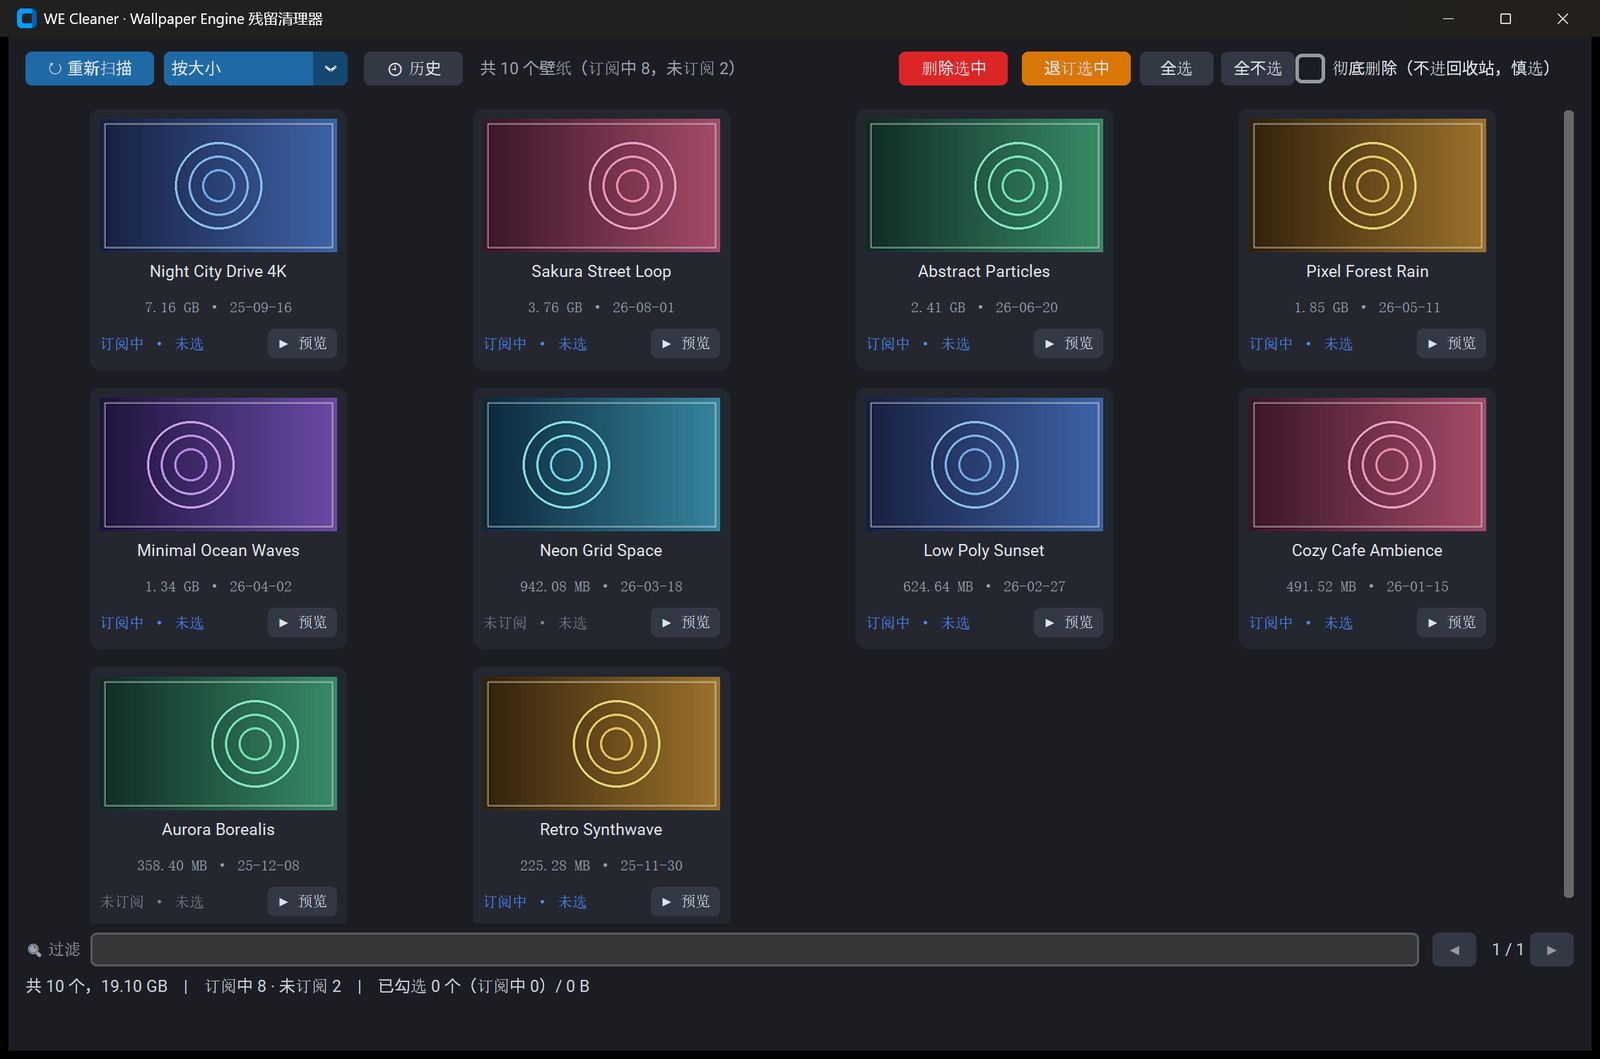
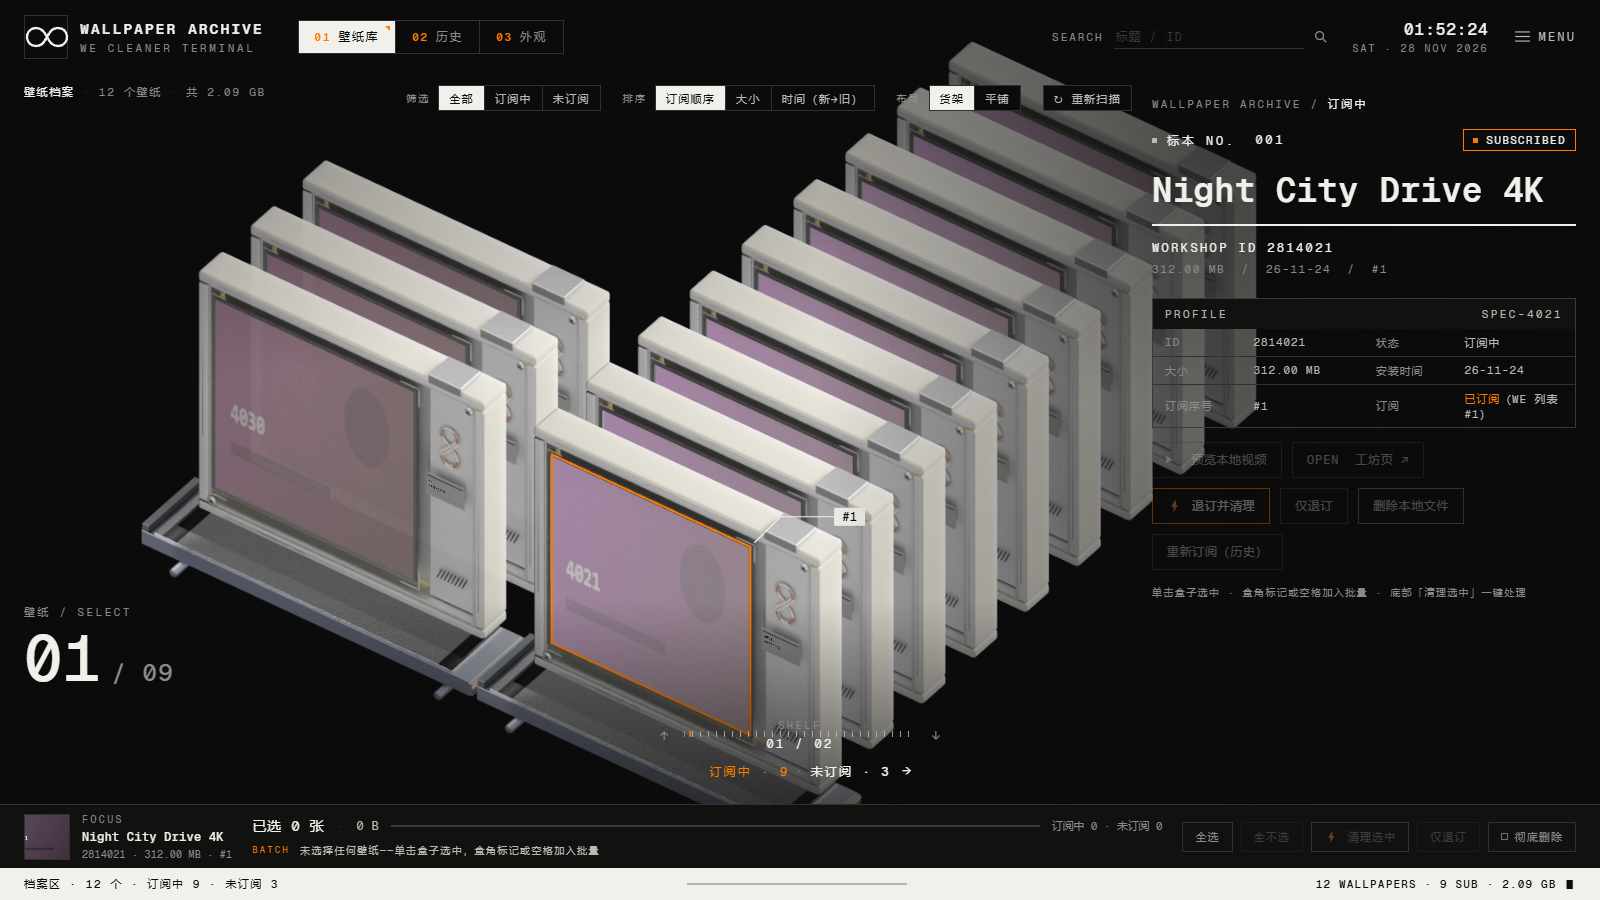
v0.7.3: 仓库清理 + 文档对齐新界面
- 删除临时调试产物（_app_out.txt / _test_flow.py / _icon_preview.png）
- 移除 12 MB 开发自查截图（webui/app/_verify/），docs/screenshot.png
  替换为当前货架界面实拍
- README 中英文重写：等距档案架/平铺双布局、智能清理、历史恢复、
  WebView2 依赖、WECleanerNext.exe 打包命令与体积
- 货架点击补上「露出的上边缘」命中补偿；扫描前检测 Steam 下载暂存区
  并提示；目录测量预算 15s → 8s
- pyproject 版本 0.6.0 → 0.7.3

diff --git a/webui/app/app.js b/webui/app/app.js
@@ -550,10 +550,10 @@ function drawSelectionPlate() {
   ctx.fillStyle = C.fg; ctx.fillRect(lx + 54, ly - 9, tw + 16, 18);
   ctx.fillStyle = C.bg; ctx.fillText(text, lx + 62, ly + 1);
 }
-function hitTest(px, py) {
+function hitTestCore(px, py) {
   const { rows } = shelfPlan();
   const zv = CASE.axes.z;                                     // [0, -75.21] 每世界单位
-  const depth = 0.55;                                          // 盒子顶面厚度（世界单位，目测校准）
+  const depth = 1.0;                                          // 盒子顶面厚度（世界单位，目测校准）
   for (let pos = 0; pos < SHELF_ROWS; pos++) {
     const p = rows[pos]; if (!p) continue;
     // 绘制层序：slot 0 的 close 最大、最后绘制、在最上层 —— 命中检测必须从最上层开始
@@ -577,7 +577,18 @@ function hitTest(px, py) {
     }
   }
   return null;
-}
+
+
+function hitTest(px, py) {
+  // 向上扫描补偿：两盒重叠带里，命中视觉上层的盒子（露出的上边缘）
+  const direct = hitTestCore(px, py);
+  if (direct) return direct;
+  for (let dy = 8; dy <= 130; dy += 8) {
+    const t = hitTestCore(px, py - dy);
+    if (t) return t;
+  }
+  return null;
+}}
 
 /* ---------- 上浮动画 + 重绘泵 ---------- */
 let anim = null;

diff --git a/wecleaner/bridge.py b/wecleaner/bridge.py
@@ -219,6 +219,17 @@ class Api:
         return _err("busy")
 
     def _scan_worker(self) -> None:
+        # Steam 正在写入壁纸文件时（下载/删除），目录测量会极慢——提前告知用户
+        dl_hint = ""
+        try:
+            import glob
+            for lib in core.find_steam_libraries():
+                dl = os.path.join(lib, "steamapps", "workshop", "downloads", self.appid)
+                if os.path.isdir(dl) and os.listdir(dl):
+                    dl_hint = "Steam 正在后台下载壁纸（可能较慢），建议稍后再扫描"
+                    break
+        except Exception:  # noqa: BLE001
+            pass
         try:
             # 1) 先问运行中的 Steam 要权威订阅列表（含顺序 → subIndex）
             order: list[str] | None = None
@@ -229,6 +240,8 @@ class Api:
                         order = steamapi.get_subscribed_ordered()
                     else:
                         connect_error = steamapi.last_error
+                    if dl_hint:
+                        connect_error = (connect_error + "；" if connect_error else "") + dl_hint
                 except Exception as e:  # noqa: BLE001 - API 失败时回退 ACF（core 自己处理）
                     connect_error = str(e)
 

diff --git a/wecleaner/core.py b/wecleaner/core.py
@@ -236,7 +236,7 @@ class _MeasureTimeout(Exception):
     """单文件夹测量超预算（通常因为 Steam 正在写入/删除该目录）。"""
 
 
-def dir_size(path: str, budget: float = 15.0) -> int:
+def dir_size(path: str, budget: float = 8.0) -> int:
     """测量目录大小。budget 秒内没测完则抛 _MeasureTimeout，避免扫描卡死。"""
     t0 = time.monotonic()
     total = 0

diff --git a/README.md b/README.md
@@ -17,6 +17,15 @@
 
 </div>
 
+## 界面
+
+RhinE「音频档案」风格的等距标本盒界面 —— 每张壁纸是一只标本盒，摆在自己的货架上：
+
+- **三个视图**：壁纸库 / 历史 / 外观（6 套配色 × 明暗）
+- **两种布局**：**货架**（等距 3D 标本架）与 **平铺**（网格卡片墙），工具条一键切换
+- **顺手的多选**：单击盒子选中，盒角标记或空格加入批量集；底部「⚡ 清理选中」一键处理
+- **实时对账**：订阅状态每 5 秒与 Steam 同步一次，外部退订/订阅会自动反映
+
 ## 解决什么问题
 
 Wallpaper Engine 的壁纸动辄几 GB，订阅几十张不知不觉就吃掉几十上百 GB 磁盘。更麻烦的是：
@@ -26,40 +35,43 @@ Wallpaper Engine 的壁纸动辄几 GB，订阅几十张不知不觉就吃掉几
 - **想批量退订**，客户端只能一张一张右键移除
 - **退订后反悔了**，文件已经被删，只能重新去创意工坊翻找
 
-WE Cleaner 把这些问题一次解决：缩略图卡片墙 + 精确占用统计 + 批量退订 + 操作历史一键恢复订阅。
+WE Cleaner 把这些问题一次解决：档案架 + 精确占用统计 + 批量退订 + 操作历史一键恢复订阅。
 
 ## 功能
 
 | 功能 | 说明 |
 |---|---|
-| 🖼 **缩略图卡片墙** | 每张壁纸显示预览图、标题、占用大小、安装时间、订阅状态，一眼看清 |
-| 🔍 **搜索与排序** | 按标题/ID 实时过滤；按占用大小、订阅时间排序，找出最占地的那几张 |
-| ⚡ **批量退订** | 勾选多张一次性退订，走 Steam 官方接口，Steam 自动删除文件并取消下载 |
-| 🔥 **退订并清理** | 一键完成「退订 + 删除本地文件」，不用分两步操作 |
-| 🗂 **分类过滤** | 全部 / 订阅中 / 未订阅 三个标签页，配合排序快速筛选 |
-| 🧹 **残留清理** | 自动识别「已退订但没删掉」的残留文件，精确清理，不误伤订阅中的内容 |
-| 🕘 **历史与恢复订阅** | 每次退订/删除都有记录，点一下就能重新订阅，Steam 自动重新下载 |
+| 🗄 **等距档案架 / 平铺网格** | 两种浏览布局：货架带 3D 卡片与顶面命中，平铺 32 张/页，适合快速扫图 |
+| 🖼 **缩略图与标题** | 每张壁纸显示预览图、标题、占用大小、安装时间、订阅状态，一眼看清 |
+| 🔍 **搜索与排序** | 按标题/ID 实时过滤；按占用大小、订阅时间（新→旧）排序 |
+| ⚡ **批量多选** | 整卡点击 / 盒角标记 / 空格加入批量集，底部操作条实时显示张数与总大小 |
+| 🔥 **智能清理** | 一次点击：订阅中的自动「退订 + 删文件」，未订阅的直接删文件 |
+| 🧹 **残留清理** | 识别「已退订但没删掉」的残留文件，只清理未订阅内容，绝不误伤订阅中的壁纸 |
+| 🕘 **历史与恢复订阅** | 每次退订/删除都有记录，一键重新订阅，Steam 自动重新下载 |
 | 🎬 **本地快速预览** | 不用打开 Wallpaper Engine，直接播放壁纸视频确认内容 |
+| 🎨 **外观** | 6 套配色 × 明暗模式，标本盒外壳可换，选择会被记住 |
 
 ## 快速开始
 
-1. 到 [Releases](https://github.com/xiaoyuyu6420/wallpaper-engine-cleaner/releases/latest) 下载 `WECleaner.exe`（免安装，约 20 MB）
+1. 到 [Releases](https://github.com/xiaoyuyu6420/wallpaper-engine-cleaner/releases/latest) 下载 `WECleanerNext.exe`（免安装，约 94 MB，前端资源已内置）
 2. 保持 **Steam 正在运行**，双击打开
-3. 自动扫描完成后：排序 / 搜索挑出不要的壁纸 → 勾选 → 「退订选中」
-4. 退订错了？点「🕘 历史」→ 勾选 → 「重新订阅勾选」，Steam 自动下回来
+3. 扫描完成后：搜索 / 排序 / 筛选找出不要的壁纸 → 选中 → 底部「⚡ 清理选中」
+4. 退订错了？切到 **历史** → 勾选 → 「重新订阅勾选」，Steam 自动下回来
 
-> 系统要求：Windows 10/11，已安装 Steam 和 Wallpaper Engine。首次运行若被 SmartScreen 提示，选择「更多信息 → 仍要运行」（未签名开源软件的正常提示）。
+> **系统要求**：Windows 10/11，已安装 Steam 和 Wallpaper Engine；界面基于 WebView2，Windows 11 自带，Windows 10 一般随 Edge 已安装（缺失时装 [WebView2 Runtime](https://developer.microsoft.com/microsoft-edge/webview2/)）。首次运行若被 SmartScreen 提示，选择「更多信息 → 仍要运行」（未签名开源软件的正常提示）。
 
 ## 命令行
 
+图形界面之外，CLI 保留了全部能力（`run.py` 入口）：
+
 ```text
-WECleaner scan                            # 列出全部壁纸（大小/时间/订阅状态）
-WECleaner unsubscribe --list              # 列出当前订阅（只读预览）
-WECleaner unsubscribe --all               # 批量退订全部订阅
-WECleaner unsubscribe --id 123456         # 退订指定 ID
-WECleaner clean --all -y                  # 清理全部未订阅残留（默认进回收站）
-WECleaner history                         # 查看退订/删除历史
-WECleaner resubscribe --all               # 从历史一键恢复订阅
+wecleaner scan                            # 列出全部壁纸（大小/时间/订阅状态）
+wecleaner unsubscribe --list              # 列出当前订阅（只读预览）
+wecleaner unsubscribe --all               # 批量退订全部订阅
+wecleaner unsubscribe --id 123456         # 退订指定 ID
+wecleaner clean --all -y                  # 清理全部未订阅残留（默认进回收站）
+wecleaner history                         # 查看退订/删除历史
+wecleaner resubscribe --all               # 从历史一键恢复订阅
 ```
 
 ## 安全设计
@@ -90,11 +102,16 @@ WECleaner resubscribe --all               # 从历史一键恢复订阅
 
 ```bash
 uv sync
-uv run pyinstaller --onefile --clean --collect-all customtkinter --name WECleaner run.py
-# 产物：dist/WECleaner.exe
+uv run app.py            # 开发态启动新界面
+
+# 重新打包（产物 dist/WECleanerNext.exe）
+uv run pyinstaller --onefile --noconfirm --name WECleanerNext \
+  --collect-all webview --add-data "webui;webui" app.py
 ```
 
-技术栈：Python 3.12 · CustomTkinter · Pillow · PyInstaller（单文件打包）
+技术栈：Python 3.12 · pywebview（WebView2）· HTML / CSS / Canvas（无构建步骤）· Pillow · send2trash · PyInstaller。
+
+`wecleaner/gui.py` 是早期 CustomTkinter 界面，保留作回退方案；`run.py` 同时是 CLI 入口。
 
 ## 常见问题
 
@@ -106,6 +123,11 @@ uv run pyinstaller --onefile --clean --collect-all customtkinter --name WECleane
 <details>
 <summary><b>需要一直开着 Steam 吗？</b></summary>
 退订和恢复订阅需要 Steam 运行（走官方接口）。只浏览、搜索、查看占用则不需要。
+</details>
+
+<details>
+<summary><b>为什么打开后是只读 / 按钮变灰？</b></summary>
+Steam 没运行，或本地订阅记录缺失（ACF 里没有订阅清单）。此时工具无法确认哪些壁纸仍在订阅，会主动禁用删除。启动 Steam 并打开一次 Wallpaper Engine，重新扫描即可。
 </details>
 
 <details>

diff --git a/README_EN.md b/README_EN.md
@@ -9,12 +9,22 @@ See what every wallpaper costs you · batch-unsubscribe unwanted ones · restore
 [![Release](https://img.shields.io/github/v/release/xiaoyuyu6420/wallpaper-engine-cleaner?color=4f8cff&label=download)](https://github.com/xiaoyuyu6420/wallpaper-engine-cleaner/releases/latest)
 [![License](https://img.shields.io/badge/license-MIT-green)](LICENSE)
 [![Platform](https://img.shields.io/badge/platform-Windows-blue)](https://github.com/xiaoyuyu6420/wallpaper-engine-cleaner/releases/latest)
+[![Python](https://img.shields.io/badge/python-3.12+-yellow)](pyproject.toml)
 
 <img src="docs/screenshot.png" alt="WE Cleaner screenshot" width="860">
 
 [中文文档](README.md) · English
 
 </div>
+
+## Interface
+
+An isometric specimen-shelf UI in the spirit of RhinE's "Audio Archive" — every wallpaper is a specimen case on its own shelf:
+
+- **Three views**: Library / History / Appearance (6 palettes × light & dark)
+- **Two layouts**: **Shelf** (isometric 3D specimen rack) and **Grid** (card wall), switchable from the toolbar
+- **Comfortable multi-select**: click a case to focus it, use the corner mark or Space to add it to the batch; the bottom bar's "Clean selected" handles the rest
+- **Live reconciliation**: subscription state syncs with Steam every 5 seconds
 
 ## The problem
 
@@ -25,37 +35,43 @@ Wallpaper Engine wallpapers are several GB each. Subscribe to a few dozen and yo
 - **No batch unsubscribe** — removing wallpapers one by one in the client is painful
 - **No undo** — unsubscribe by accident and the files are gone
 
-WE Cleaner solves all four: a thumbnail card wall with exact sizes, batch unsubscribe through official Steam APIs, leftover cleanup, and a history log that can restore subscriptions with one click.
+WE Cleaner solves all four: a specimen-shelf library with exact sizes, batch unsubscribe through official Steam APIs, leftover cleanup, and a history log that can restore subscriptions with one click.
 
 ## Features
 
 | Feature | Description |
 |---|---|
-| 🖼 **Thumbnail wall** | Preview image, title, size, install date and subscription status for every wallpaper |
-| 🔍 **Search & sort** | Live filter by title/ID; sort by size or install time |
-| ⚡ **Batch unsubscribe** | Select many, unsubscribe once — Steam deletes the files and cancels downloads automatically |
+| 🗄 **Isometric shelf / grid** | Two layouts: a 3D shelf with card top-face hit testing, or a 32-per-page card wall for fast scanning |
+| 🖼 **Thumbnails & titles** | Preview image, title, size, install date and subscription status for every wallpaper |
+| 🔍 **Search & sort** | Live filter by title/ID; sort by size or subscription time (newest first) |
+| ⚡ **Batch multi-select** | Whole-card click / corner mark / Space; the bottom bar shows count and total size live |
+| 🔥 **Smart clean** | One click: subscribed items are unsubscribed and deleted, unsubscribed leftovers are deleted directly |
 | 🧹 **Leftover cleanup** | Finds files from unsubscribed wallpapers that Steam failed to delete — without touching active subscriptions |
 | 🕘 **History & restore** | Every unsubscribe/delete is logged; re-subscribe with one click and Steam re-downloads |
 | 🎬 **Quick local preview** | Play a wallpaper's video without opening Wallpaper Engine |
+| 🎨 **Appearance** | 6 palettes × light/dark, switchable case skins, choices are remembered |
 
 ## Quick start
 
-1. Download `WECleaner.exe` from [Releases](https://github.com/xiaoyuyu6420/wallpaper-engine-cleaner/releases/latest) (portable, ~20 MB)
+1. Download `WECleanerNext.exe` from [Releases](https://github.com/xiaoyuyu6420/wallpaper-engine-cleaner/releases/latest) (portable, ~94 MB, front-end assets included)
 2. Keep **Steam running**, double-click the exe
-3. Sort / search to find unwanted wallpapers → select → **Unsubscribe Selected**
-4. Made a mistake? Open **🕘 History** → select → **Resubscribe** — Steam downloads them back
+3. Search / sort / filter to find unwanted wallpapers → select → **Clean selected**
+4. Made a mistake? Open **History** → select → **Resubscribe** — Steam downloads them back
 
-> Requires Windows 10/11 with Steam and Wallpaper Engine installed.
+> **Requirements**: Windows 10/11 with Steam and Wallpaper Engine installed. The UI runs on WebView2 — built into Windows 11, and normally already present on Windows 10 via Edge (otherwise install the [WebView2 Runtime](https://developer.microsoft.com/microsoft-edge/webview2/)).
 
 ## CLI
 
+The CLI keeps the full feature set (`run.py` entry point):
+
 ```text
-WECleaner scan                            # list all wallpapers (size/time/subscription status)
-WECleaner unsubscribe --list              # read-only subscription listing
-WECleaner unsubscribe --all               # unsubscribe everything
-WECleaner clean --all -y                  # remove all unsubscribed leftovers (to Recycle Bin)
-WECleaner history                         # view operation history
-WECleaner resubscribe --all               # restore subscriptions from history
+wecleaner scan                            # list all wallpapers (size/time/subscription status)
+wecleaner unsubscribe --list              # read-only subscription listing
+wecleaner unsubscribe --all               # unsubscribe everything
+wecleaner unsubscribe --id 123456         # unsubscribe a specific ID
+wecleaner clean --all -y                  # remove all unsubscribed leftovers (to Recycle Bin)
+wecleaner history                         # view operation history
+wecleaner resubscribe --all               # restore subscriptions from history
 ```
 
 ## Safety
@@ -63,6 +79,7 @@ WECleaner resubscribe --all               # restore subscriptions from history
 - **Read-only mode when subscription state is unreliable** — never touches files without verified information
 - **Delete and unsubscribe are physically separated** — deletions only ever target unsubscribed leftovers
 - **Deletes go to the Recycle Bin by default**; permanent delete requires an explicit opt-in and a second confirmation
+- **Manual override** — if you know everything is unsubscribed, an explicit unlock (with a strong confirmation) re-enables cleaning
 - **No account risk** — uses the official Steamworks `ISteamUGC` interface, the same channel the Wallpaper Engine client itself uses. No passwords, no injection, no hooks
 
 ## How it works
@@ -85,11 +102,16 @@ Requires [uv](https://docs.astral.sh/uv/):
 
 ```bash
 uv sync
-uv run pyinstaller --onefile --clean --collect-all customtkinter --name WECleaner run.py
-# output: dist/WECleaner.exe
+uv run app.py            # run the new UI in development
+
+# rebuild (output: dist/WECleanerNext.exe)
+uv run pyinstaller --onefile --noconfirm --name WECleanerNext \
+  --collect-all webview --add-data "webui;webui" app.py
 ```
 
-Stack: Python 3.12 · CustomTkinter · Pillow · PyInstaller
+Stack: Python 3.12 · pywebview (WebView2) · HTML / CSS / Canvas (no build step) · Pillow · send2trash · PyInstaller.
+
+The earlier CustomTkinter UI in `wecleaner/gui.py` is kept as a fallback; `run.py` is also the CLI entry point.
 
 ## License
 
